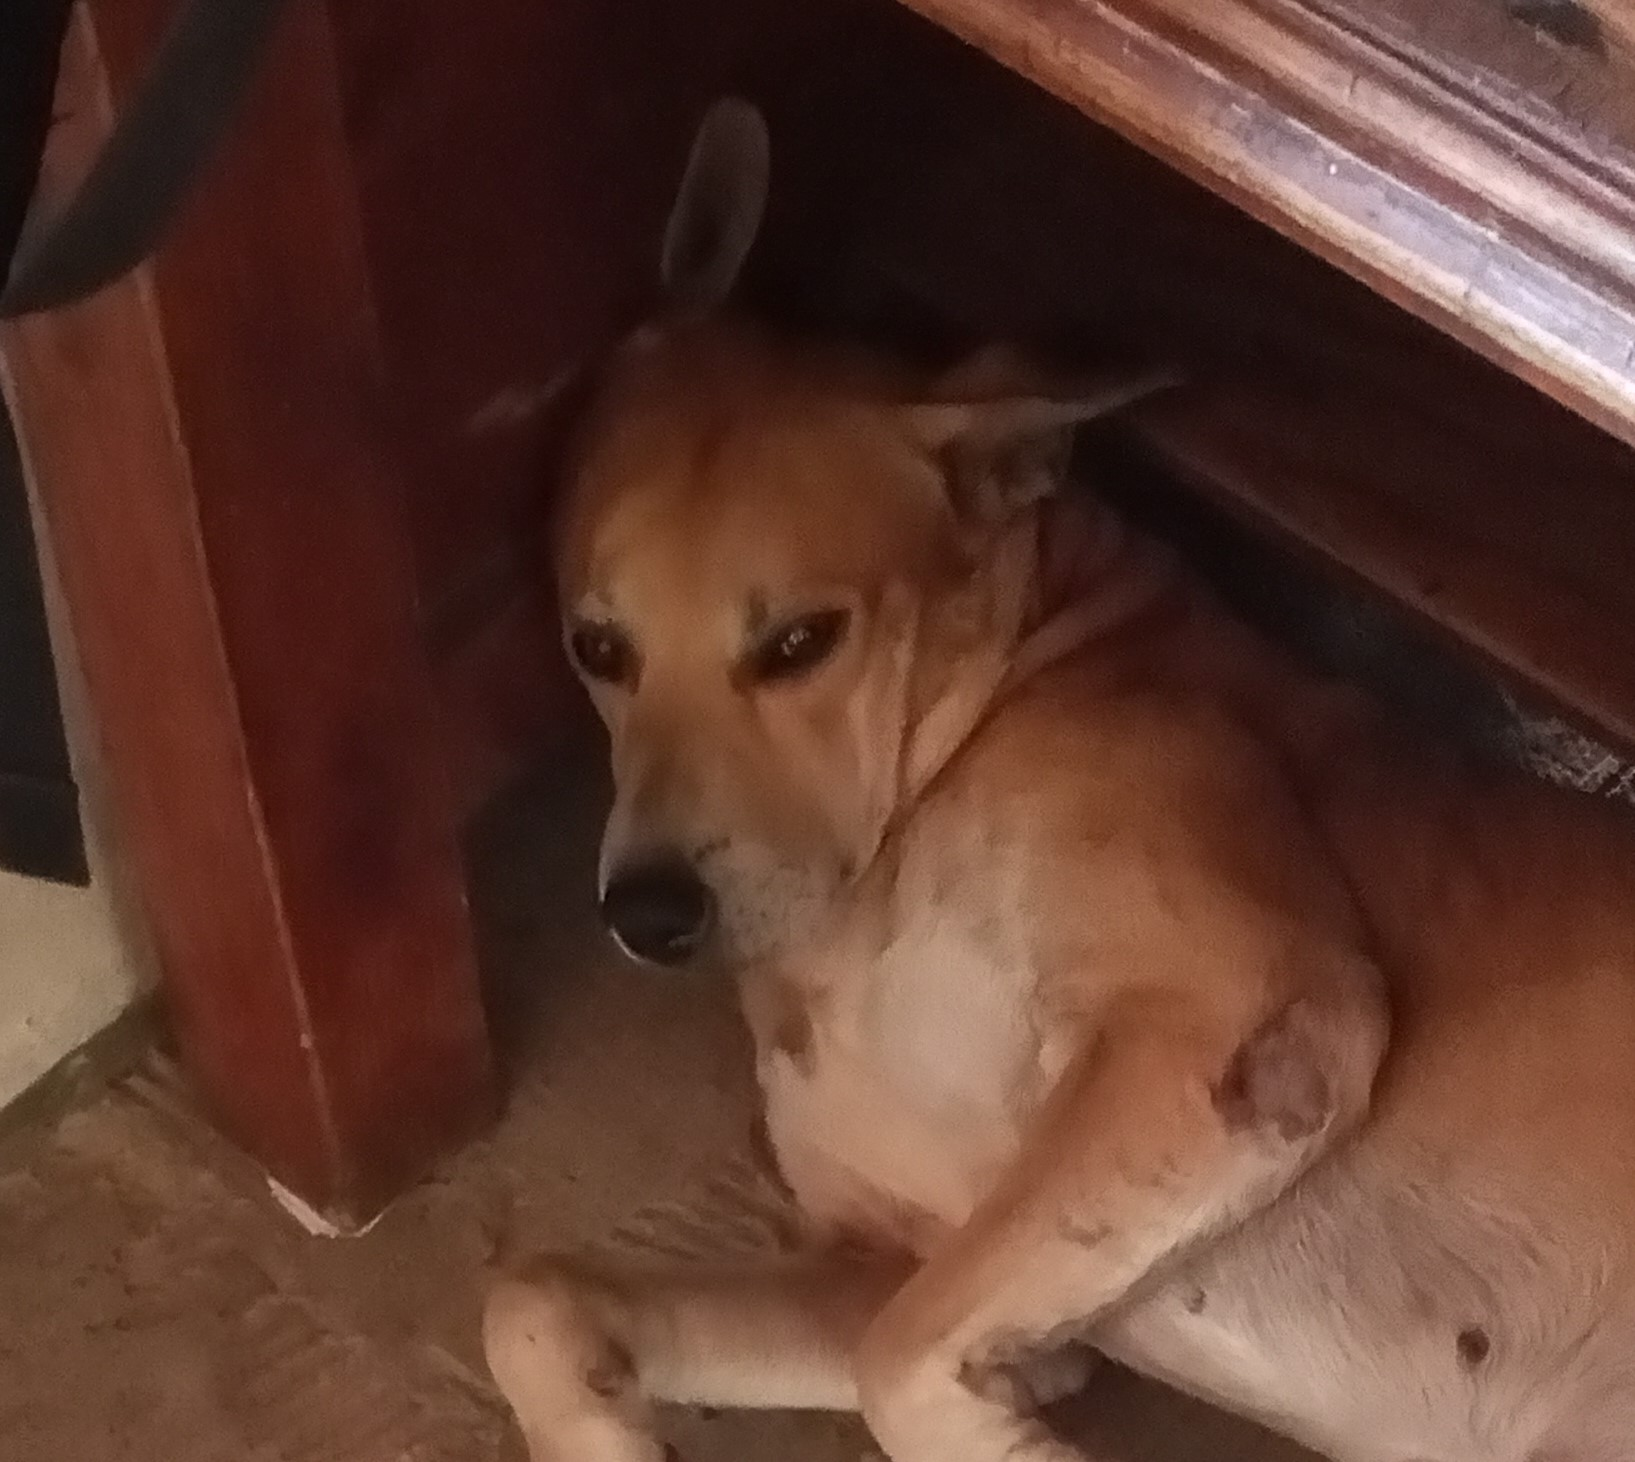
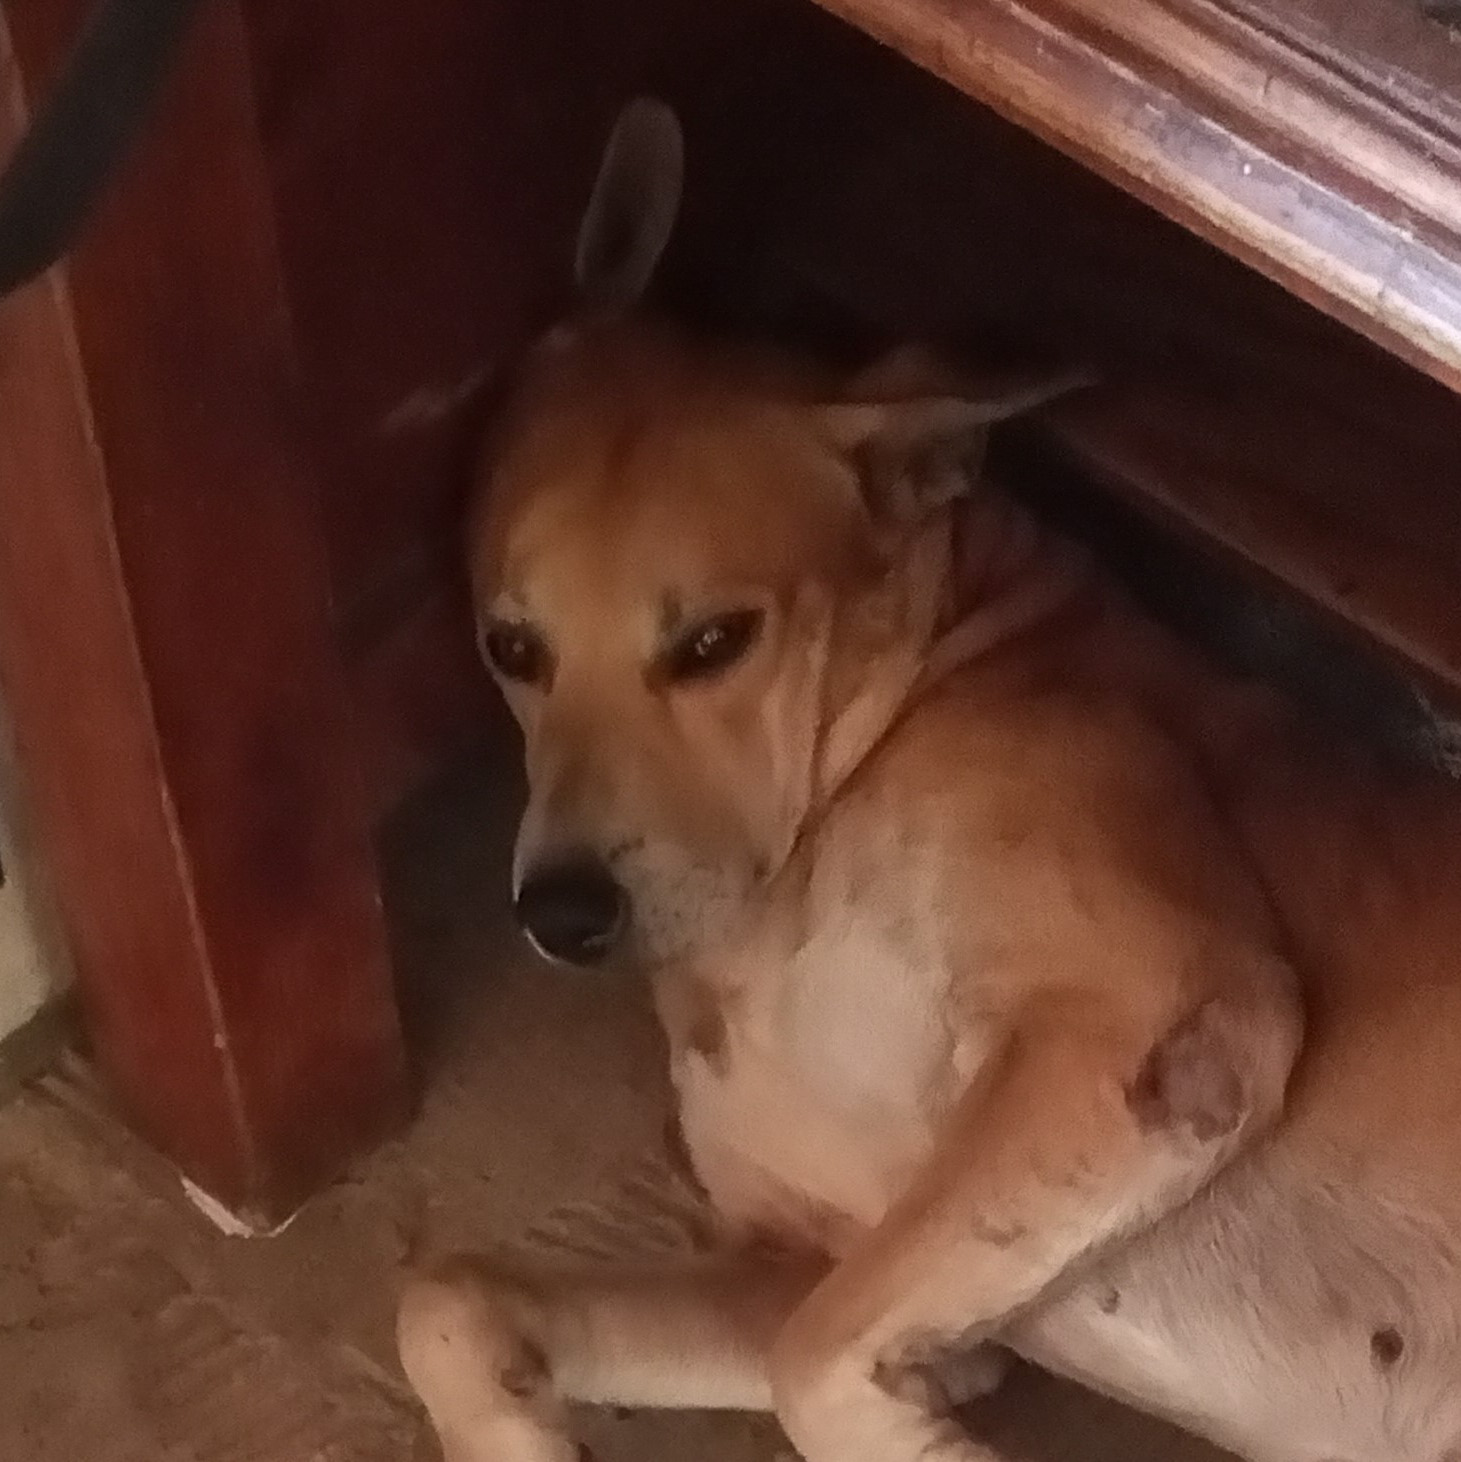
Actualizado: Adaptacion de resolucion en imagen de perfil

diff --git a/estilos/estilos.css b/estilos/estilos.css
@@ -1,6 +1,11 @@
 body, html{
     height: 100%;
 }
+#is-circle{
+    object-fit: cover;
+    width: 100%;
+    height: 100%;
+}
 .bg {
     background: -moz-linear-gradient(45deg, rgba(213, 15, 61, 0.6), rgba(13, 17, 198, 0.69) 100%);
     background: -webkit-linear-gradient(45deg, rgba(213, 15, 61, 0.6), rgba(13, 17, 198, 0.69) 100%);
@@ -11,6 +16,6 @@ body, html{
     z-index:1;
     justify-content: center;
     position: relative;
-    top: 3em;
+    top: 4em;
     left:auto;
 }

diff --git a/index.php b/index.php
@@ -16,11 +16,11 @@
 
                     <div class="is-flex is-horizontal-centered ">
                         <figure class="image is-128x128">
-                            <img class="is-rounded" src="media/perfil.jpg" alt="fotoPerfil">
+                            <img id="is-circle" class="is-rounded" src="media/perfil.jpg" alt="fotoPerfil">
                         </figure>
                     </div>
 
-                    <div class="card pt-3">
+                    <div class="card pt-6">
                         <div class="card-content">
                             <div class="media pb-1">
                                 <div class="media-content">
